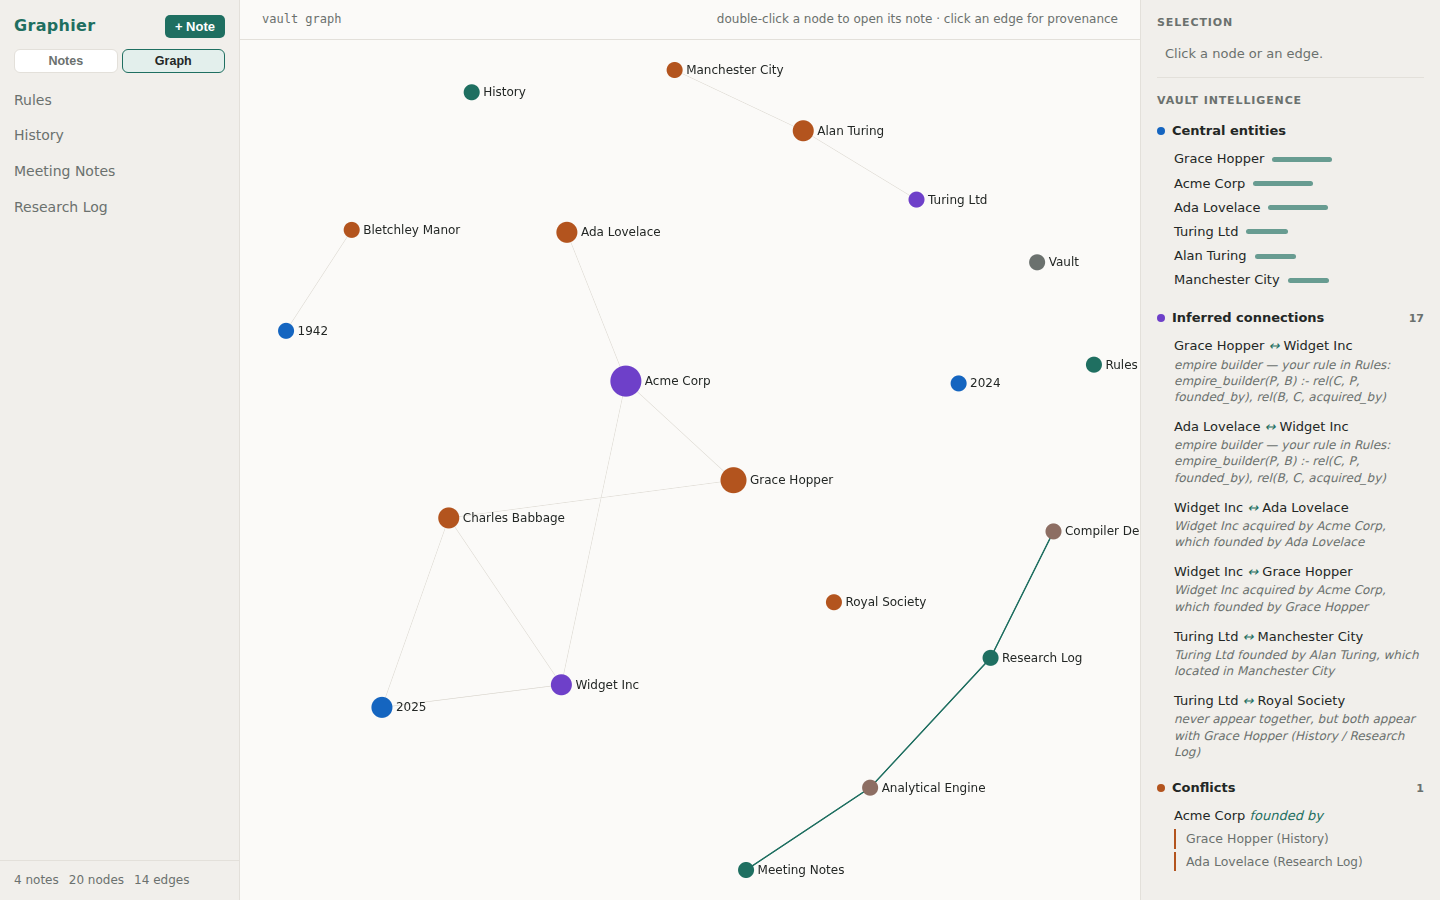
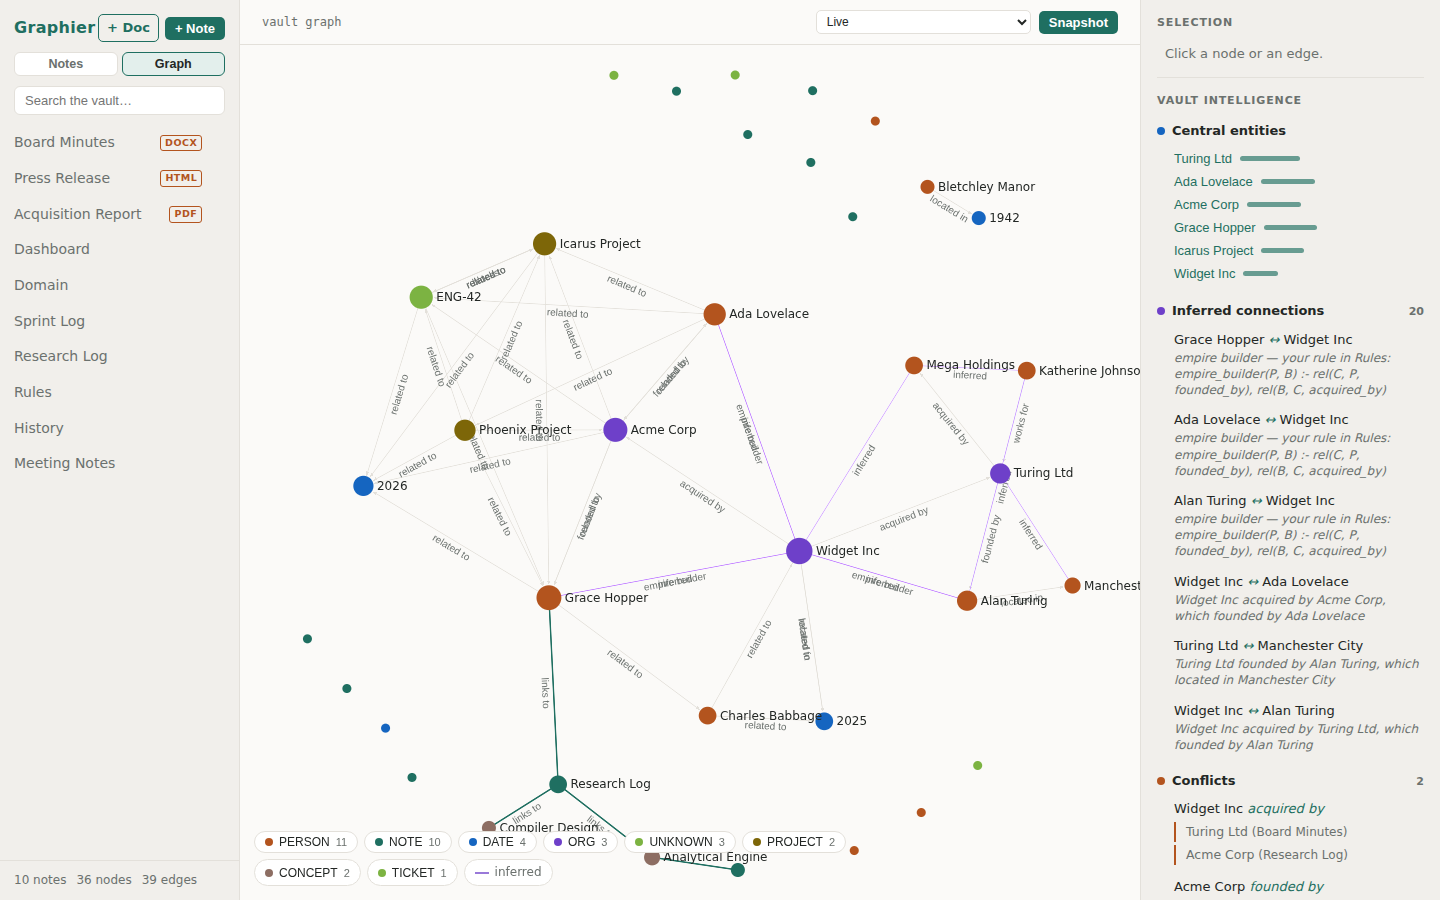
Upgrade graph canvas: legend filters, hover focus, edge labels, inferred overlay
- Clickable legend chips (bottom-left) show every entity type present
  with counts; toggling a chip hides that type's nodes and edges via
  sigma reducers.
- Hovering a node focuses its neighborhood: non-neighbors and their
  edges fade to ghosts, labels drop, the hovered node's connections
  stay vivid with their edge labels.
- Edge labels render the predicate (acquired by, founded by, blocks…);
  extracted edges get directed arrows, manual wiki-links stay teal
  lines.
- Inferred connections (chained + custom rule derivations) overlay as
  translucent violet edges in the live view, labeled by rule; bridged
  inferences are excluded to keep the canvas legible.
- Node size now tracks degree, so hubs read at a glance.

Claude-Session: https://claude.ai/code/session_01QVbxD1gd3gsC6zXKE6L3ya

diff --git a/frontend/src/GraphView.tsx b/frontend/src/GraphView.tsx
@@ -4,7 +4,7 @@ import { circular } from 'graphology-layout'
 import forceAtlas2 from 'graphology-layout-forceatlas2'
 import Sigma from 'sigma'
 import { api } from './api'
-import type { FullGraph, GraphEdge, GraphNode } from './api'
+import type { GraphEdge, GraphNode } from './api'
 import { labelColor } from './labels'
 
 export interface Selection {
@@ -20,9 +20,22 @@ interface GraphViewProps {
   at?: string
 }
 
+interface LegendEntry {
+  label: string
+  count: number
+  color: string
+}
+
+const FADE = '#d0d0d033'
+
 export function GraphView({ onOpenNote, onSelect, at }: GraphViewProps) {
   const container = useRef<HTMLDivElement>(null)
   const [empty, setEmpty] = useState(false)
+  const [legend, setLegend] = useState<LegendEntry[]>([])
+  const [hasInferred, setHasInferred] = useState(false)
+  const hiddenRef = useRef<Set<string>>(new Set())
+  const [hidden, setHidden] = useState<Set<string>>(new Set())
+  const rendererRef = useRef<Sigma | null>(null)
 
   useEffect(() => {
     if (!container.current) return
@@ -30,71 +43,163 @@ export function GraphView({ onOpenNote, onSelect, at }: GraphViewProps) {
     let cancelled = false
     setEmpty(false)
 
-    api.fullGraph(at).then((data: FullGraph) => {
-      if (cancelled || !container.current) return
-      if (data.nodes.length === 0) {
-        setEmpty(true)
-        return
-      }
-      const styles = getComputedStyle(document.documentElement)
-      const colorOf = labelColor
+    Promise.all([api.fullGraph(at), at ? Promise.resolve(null) : api.enrichment().catch(() => null)]).then(
+      ([data, enrichment]) => {
+        if (cancelled || !container.current) return
+        if (data.nodes.length === 0) {
+          setEmpty(true)
+          return
+        }
+        const styles = getComputedStyle(document.documentElement)
+        const inferredColor = styles.getPropertyValue('--c-org').trim() || '#6e40c9'
+        const manualColor = styles.getPropertyValue('--c-wikilink').trim() || '#1f6f61'
+        const extractedColor = styles.getPropertyValue('--line').trim() || '#ccc'
 
-      const graph = new Graph({ multi: true })
-      const byId = new Map(data.nodes.map((n) => [n.id, n]))
+        const graph = new Graph({ multi: true })
+        const byId = new Map(data.nodes.map((n) => [n.id, n]))
+        const byText = new Map(data.nodes.map((n) => [n.text.trim().toLowerCase(), n.id]))
 
-      for (const node of data.nodes) {
-        graph.addNode(node.id, {
-          label: node.text,
-          color: colorOf(node.label),
-          size: Math.min(6 + node.count * 2.5, 18),
-          nodeData: node,
+        for (const node of data.nodes) {
+          graph.addNode(node.id, {
+            label: node.text,
+            entityType: node.label,
+            color: labelColor(node.label),
+            nodeData: node,
+          })
+        }
+        for (const edge of data.edges) {
+          if (!graph.hasNode(edge.source) || !graph.hasNode(edge.target)) continue
+          graph.addEdge(edge.source, edge.target, {
+            label: edge.predicate.replace(/_/g, ' '),
+            type: edge.origin === 'extracted' ? 'arrow' : 'line',
+            color: edge.origin === 'manual' ? manualColor : extractedColor,
+            size: edge.origin === 'manual' ? 2.5 : 1.5,
+            edgeData: edge,
+          })
+        }
+
+        // Inferred connections: a distinct overlay layer (live view only).
+        let inferredCount = 0
+        for (const inf of enrichment?.inferred ?? []) {
+          const src = byText.get(inf.source.trim().toLowerCase())
+          const dst = byText.get(inf.target.trim().toLowerCase())
+          if (!src || !dst || src === dst) continue
+          if (inf.kind === 'bridged') continue // too many to draw legibly
+          graph.addEdge(src, dst, {
+            label: inf.kind === 'custom' ? inf.because.split('—')[0].trim() : 'inferred',
+            type: 'line',
+            color: inferredColor + '99',
+            size: 1.2,
+            inferred: true,
+            because: inf.because,
+          })
+          inferredCount++
+        }
+        setHasInferred(inferredCount > 0)
+
+        // Node size tracks connectivity.
+        graph.forEachNode((id) => {
+          const degree = graph.degree(id)
+          graph.setNodeAttribute(id, 'size', Math.min(5 + Math.sqrt(degree) * 2.5, 18))
         })
-      }
-      for (const edge of data.edges) {
-        if (!graph.hasNode(edge.source) || !graph.hasNode(edge.target)) continue
-        graph.addEdge(edge.source, edge.target, {
-          color: edge.origin === 'manual' ? colorOf('NOTE') : styles.getPropertyValue('--line').trim(),
-          size: edge.origin === 'manual' ? 2.5 : 1.5,
-          edgeData: edge,
+
+        const counts = new Map<string, number>()
+        for (const node of data.nodes) counts.set(node.label, (counts.get(node.label) ?? 0) + 1)
+        setLegend(
+          Array.from(counts.entries(), ([label, count]) => ({
+            label,
+            count,
+            color: labelColor(label),
+          })).sort((a, b) => b.count - a.count),
+        )
+
+        circular.assign(graph)
+        forceAtlas2.assign(graph, {
+          iterations: 300,
+          settings: { ...forceAtlas2.inferSettings(graph), gravity: 1.2 },
         })
-      }
 
-      circular.assign(graph)
-      forceAtlas2.assign(graph, {
-        iterations: 300,
-        settings: { ...forceAtlas2.inferSettings(graph), gravity: 1.2 },
-      })
+        let hovered: string | null = null
 
-      renderer = new Sigma(graph, container.current, {
-        labelFont: 'system-ui, sans-serif',
-        labelSize: 12,
-        labelColor: { color: styles.getPropertyValue('--ink').trim() || '#222' },
-        renderEdgeLabels: false,
-        enableEdgeEvents: true,
-      })
+        renderer = new Sigma(graph, container.current, {
+          labelFont: 'system-ui, sans-serif',
+          labelSize: 12,
+          labelColor: { color: styles.getPropertyValue('--ink').trim() || '#222' },
+          renderEdgeLabels: true,
+          edgeLabelSize: 10,
+          edgeLabelColor: { color: styles.getPropertyValue('--ink-soft').trim() || '#888' },
+          enableEdgeEvents: true,
+          nodeReducer: (id, attrs) => {
+            const res = { ...attrs }
+            if (hiddenRef.current.has(attrs.entityType as string)) {
+              res.hidden = true
+              return res
+            }
+            if (hovered && id !== hovered && !graph.areNeighbors(id, hovered)) {
+              res.color = FADE
+              res.label = ''
+            }
+            return res
+          },
+          edgeReducer: (id, attrs) => {
+            const res = { ...attrs }
+            const [src, dst] = graph.extremities(id)
+            const srcType = graph.getNodeAttribute(src, 'entityType') as string
+            const dstType = graph.getNodeAttribute(dst, 'entityType') as string
+            if (hiddenRef.current.has(srcType) || hiddenRef.current.has(dstType)) {
+              res.hidden = true
+              return res
+            }
+            if (hovered && src !== hovered && dst !== hovered) {
+              res.color = FADE
+              res.label = ''
+            }
+            return res
+          },
+        })
+        rendererRef.current = renderer
 
-      renderer.on('clickNode', ({ node }) => {
-        const nodeData = byId.get(node)
-        if (nodeData) onSelect({ kind: 'node', node: nodeData, noteTitles: data.note_titles })
-      })
-      renderer.on('clickEdge', ({ edge }) => {
-        const edgeData = graph.getEdgeAttribute(edge, 'edgeData') as GraphEdge
-        if (edgeData) onSelect({ kind: 'edge', edge: edgeData, noteTitles: data.note_titles })
-      })
-      renderer.on('clickStage', () => onSelect(null))
-      renderer.on('doubleClickNode', ({ node }) => {
-        const nodeData = byId.get(node)
-        if (nodeData?.notes.length) onOpenNote(nodeData.notes[0])
-      })
-    })
+        renderer.on('enterNode', ({ node }) => {
+          hovered = node
+          renderer?.refresh()
+        })
+        renderer.on('leaveNode', () => {
+          hovered = null
+          renderer?.refresh()
+        })
+        renderer.on('clickNode', ({ node }) => {
+          const nodeData = byId.get(node)
+          if (nodeData) onSelect({ kind: 'node', node: nodeData, noteTitles: data.note_titles })
+        })
+        renderer.on('clickEdge', ({ edge }) => {
+          const edgeData = graph.getEdgeAttribute(edge, 'edgeData') as GraphEdge | undefined
+          if (edgeData) onSelect({ kind: 'edge', edge: edgeData, noteTitles: data.note_titles })
+        })
+        renderer.on('clickStage', () => onSelect(null))
+        renderer.on('doubleClickNode', ({ node }) => {
+          const nodeData = byId.get(node)
+          if (nodeData?.notes.length) onOpenNote(nodeData.notes[0])
+        })
+      },
+    )
 
     return () => {
       cancelled = true
       renderer?.kill()
+      rendererRef.current = null
     }
     // Rebuild on mount and when the snapshot changes.
     // eslint-disable-next-line react-hooks/exhaustive-deps
   }, [at])
+
+  const toggleType = (label: string) => {
+    const next = new Set(hiddenRef.current)
+    if (next.has(label)) next.delete(label)
+    else next.add(label)
+    hiddenRef.current = next
+    setHidden(next)
+    rendererRef.current?.refresh()
+  }
 
   if (empty) {
     return (
@@ -103,5 +208,29 @@ export function GraphView({ onOpenNote, onSelect, at }: GraphViewProps) {
       </div>
     )
   }
-  return <div className="graph-canvas" ref={container} />
+  return (
+    <div className="graph-wrap">
+      <div className="graph-canvas" ref={container} />
+      <div className="graph-legend">
+        {legend.map((entry) => (
+          <button
+            key={entry.label}
+            className={`legend-item ${hidden.has(entry.label) ? 'off' : ''}`}
+            title={`Toggle ${entry.label} nodes`}
+            onClick={() => toggleType(entry.label)}
+          >
+            <span className="dot" style={{ background: entry.color }} />
+            {entry.label}
+            <span className="legend-count">{entry.count}</span>
+          </button>
+        ))}
+        {hasInferred && (
+          <span className="legend-item static">
+            <span className="legend-line" />
+            inferred
+          </span>
+        )}
+      </div>
+    </div>
+  )
 }

diff --git a/frontend/src/App.css b/frontend/src/App.css
@@ -640,3 +640,63 @@
   padding: 0 4px;
   flex-shrink: 0;
 }
+
+/* ---- graph legend ---- */
+
+.graph-wrap {
+  position: relative;
+  flex: 1;
+  min-height: 0;
+  display: flex;
+}
+
+.graph-wrap .graph-canvas {
+  flex: 1;
+}
+
+.graph-legend {
+  position: absolute;
+  left: 14px;
+  bottom: 14px;
+  display: flex;
+  flex-wrap: wrap;
+  gap: 6px;
+  max-width: 70%;
+  z-index: 2;
+}
+
+.legend-item {
+  display: inline-flex;
+  align-items: center;
+  gap: 6px;
+  border: 1px solid var(--line);
+  background: var(--bg-raised);
+  color: var(--ink);
+  border-radius: 14px;
+  padding: 3px 10px;
+  font-size: 12px;
+  cursor: pointer;
+}
+
+.legend-item.off {
+  opacity: 0.4;
+  text-decoration: line-through;
+}
+
+.legend-item.static {
+  cursor: default;
+  color: var(--ink-soft);
+}
+
+.legend-count {
+  color: var(--ink-soft);
+  font-size: 11px;
+  font-variant-numeric: tabular-nums;
+}
+
+.legend-line {
+  width: 14px;
+  height: 0;
+  border-top: 2px solid var(--c-org);
+  opacity: 0.7;
+}
